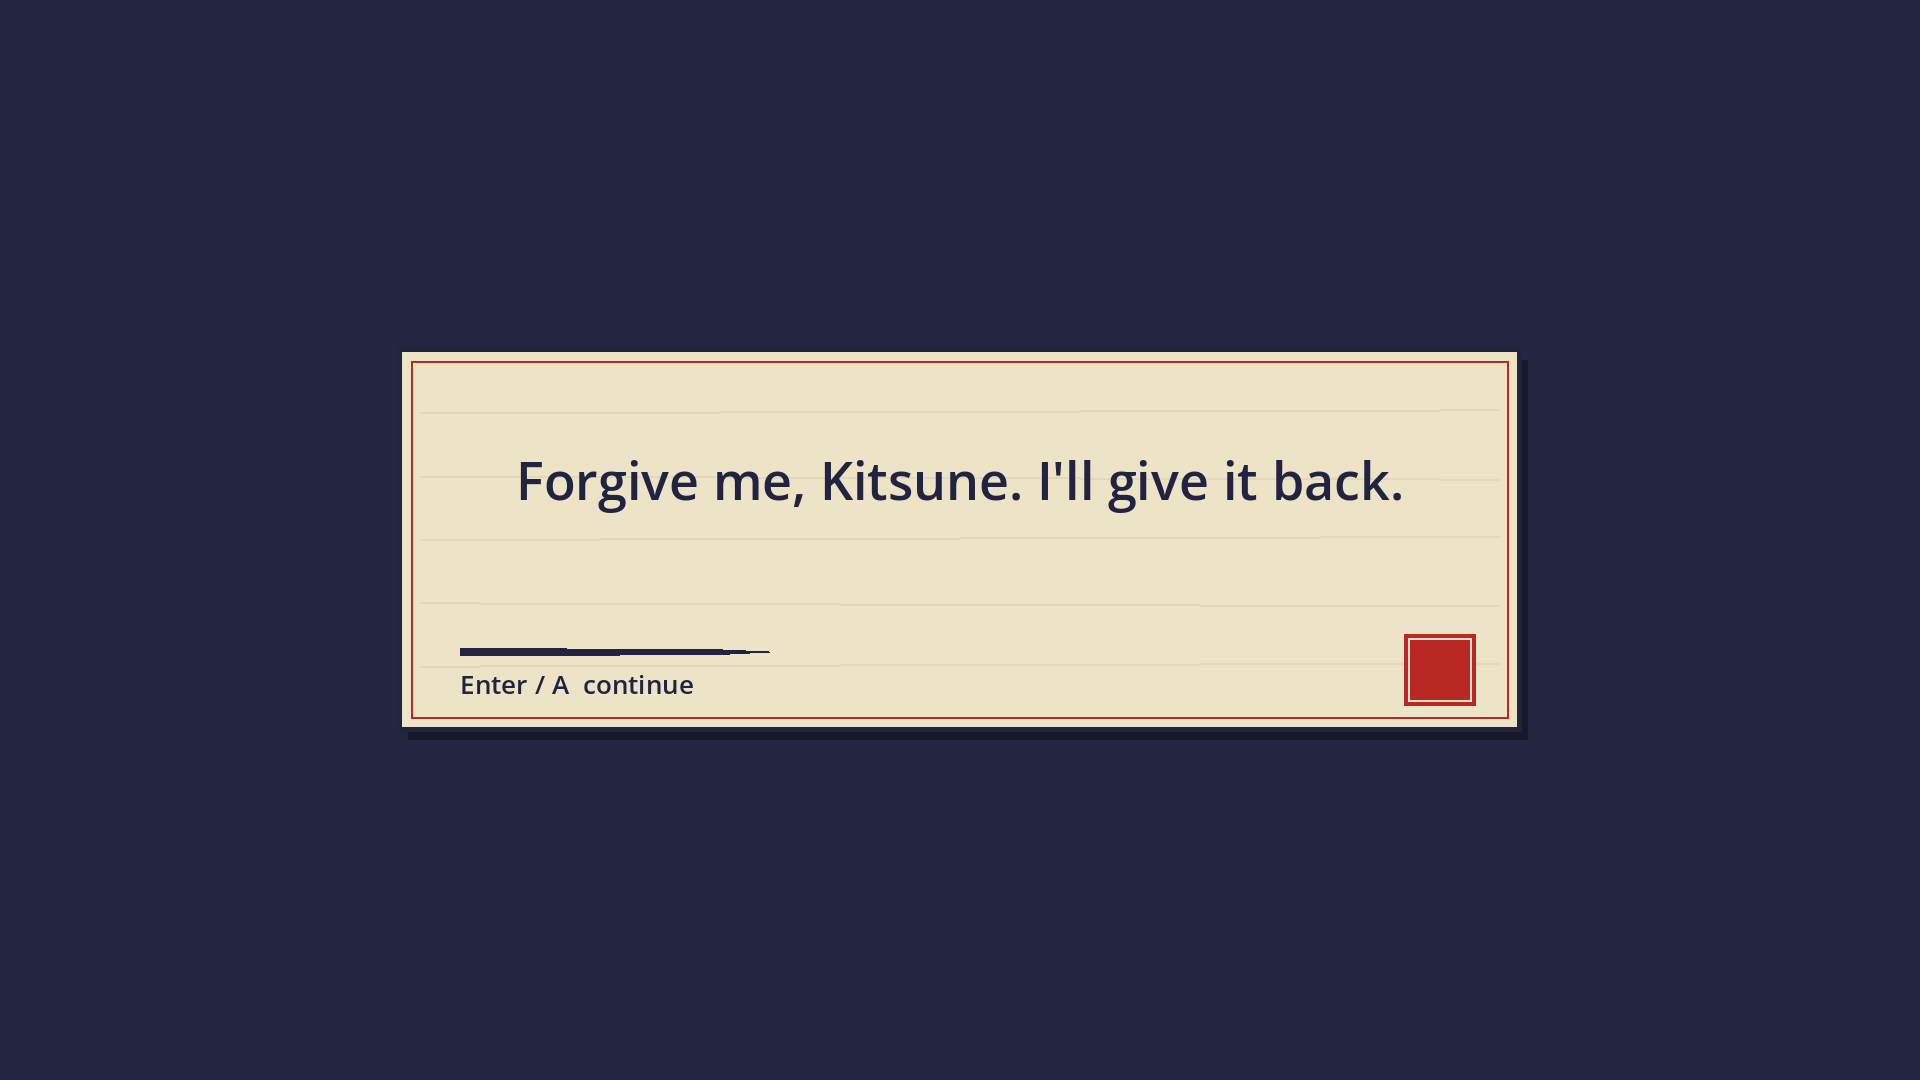
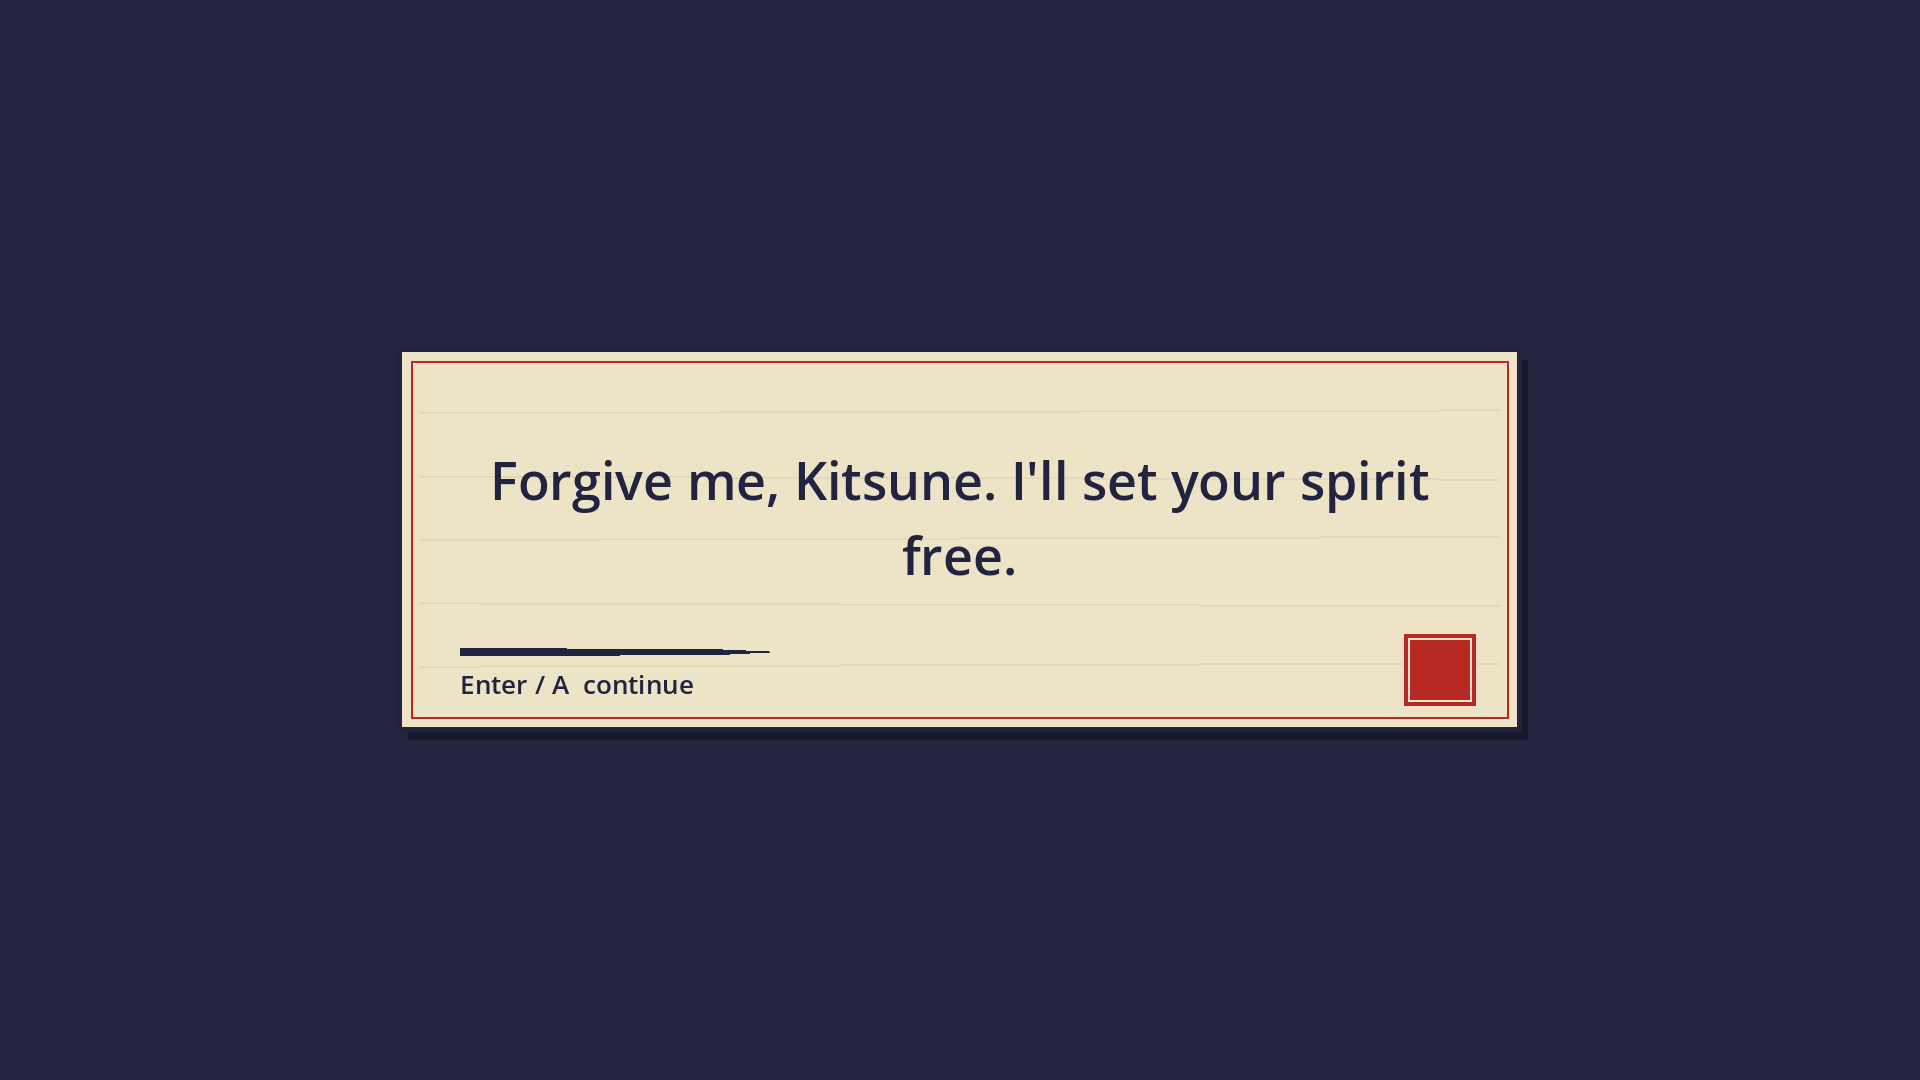
YOK-assignment-3-binding-line: show the new binding line in the assignment
Recaptured binding-line screenshot, README demo step and run-log note
for amendment AM2.

Changed region(s): [[0.25, 0.4278, 0.75, 0.4889], [0.4688, 0.4889, 0.5312, 0.55]]

diff --git a/assignments/assignment-3-agent-crew/README.md b/assignments/assignment-3-agent-crew/README.md
@@ -90,7 +90,7 @@ The crew's output is playable. The demo is Ryo vs the Kitsune in the bamboo grov
 1. **Start screen** with the controls ([`demo/1-start-screen.png`](demo/1-start-screen.png)).
 2. **The fight** on Kihon controls against the AI Kitsune. She has one readable habit: she jumps right after getting up ([`demo/2-fight-bamboo-grove.png`](demo/2-fight-bamboo-grove.png)).
 3. **F1 hitbox overlay:** the boxes from movesmith's data drawn on the moving models ([`demo/3-hitbox-overlay.png`](demo/3-hitbox-overlay.png)).
-4. **Win:** the binding line, then three reward cards. Foxfire is NEW, a Lv 2 upgrade is UPGRADE, and Will-o'-wisp or Fox's Patience is MODIFIER ([`demo/4-binding-line.png`](demo/4-binding-line.png), [`demo/5-reward-cards.png`](demo/5-reward-cards.png)).
+4. **Win:** the binding line, *"Forgive me, Kitsune. I'll set your spirit free."*, then three reward cards. Foxfire is NEW, a Lv 2 upgrade is UPGRADE, and Will-o'-wisp or Fox's Patience is MODIFIER ([`demo/4-binding-line.png`](demo/4-binding-line.png), [`demo/5-reward-cards.png`](demo/5-reward-cards.png)).
 5. **Rematch** with the drafted power and the carried health, then the demo-complete card ([`demo/6-demo-complete.png`](demo/6-demo-complete.png)).
 
 **Play it on Windows, no install needed:**

diff --git a/assignments/assignment-3-agent-crew/run-log.md b/assignments/assignment-3-agent-crew/run-log.md
@@ -105,6 +105,7 @@ Designer-attention notes it raised and the designer ruled on:
 - Approved the clip list, its upgrades and the retakes.
 - Decided the Lv 2 steps.
 - Accepted the re-timing and the hurtbox defaults.
+- Rewrote the binding line to "Forgive me, {yokai}. I'll set your spirit free." (GDD amendment AM2). The rules-lawyer passed the new story card before it merged (#62).
 - Approved every merge.
 
 No Meshy job ran without an approval, and every spend stayed at or under its cap.
